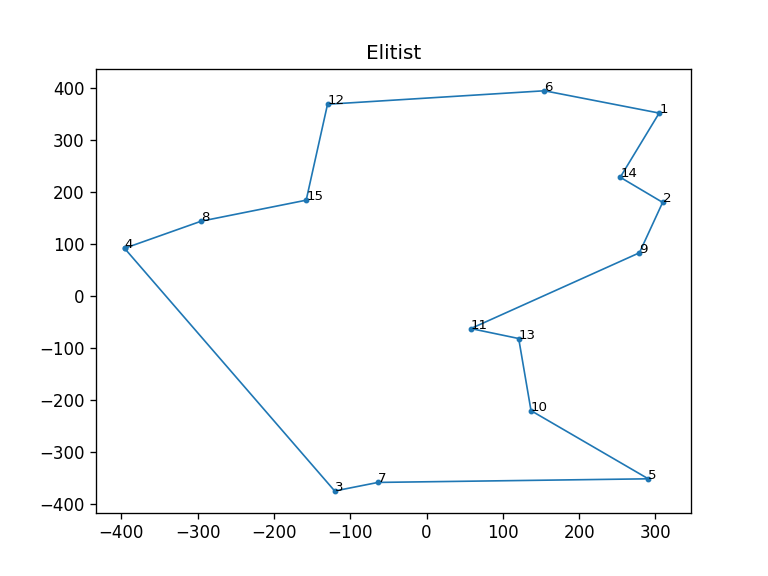
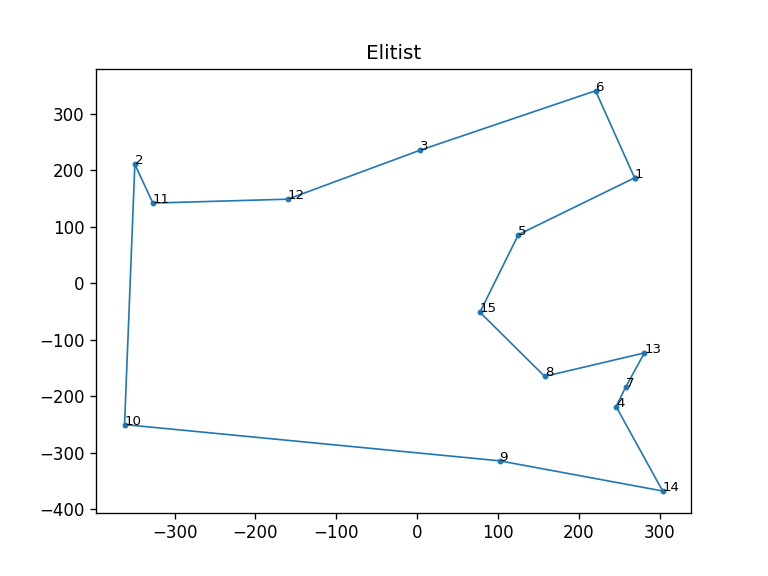
Removed parameters 'num_nodes', 'x_range' and 'y_range' from aco_tsp.py. Added parameters 'labels' to aco_tsp.py.

diff --git a/aco_tsp.py b/aco_tsp.py
@@ -50,8 +50,7 @@ class SolveTSPUsingACO:
             return self.distance
 
     def __init__(self, mode='ACS', colony_size=10, elitist_weight=1.0, min_scaling_factor=0.001, alpha=1.0, beta=3.0,
-                 rho=0.1, pheromone_deposit_weight=1.0, initial_pheromone=1.0, steps=100, num_nodes=20,
-                 x_range=(0, 500), y_range=(0, 500), nodes=None):
+                 rho=0.1, pheromone_deposit_weight=1.0, initial_pheromone=1.0, steps=100, nodes=None, labels=None):
         self.mode = mode
         self.colony_size = colony_size
         self.elitist_weight = elitist_weight
@@ -59,15 +58,12 @@ class SolveTSPUsingACO:
         self.rho = rho
         self.pheromone_deposit_weight = pheromone_deposit_weight
         self.steps = steps
-        if nodes is not None:
-            self.num_nodes = len(nodes)
-            self.nodes = nodes
+        self.num_nodes = len(nodes)
+        self.nodes = nodes
+        if labels is not None:
+            self.labels = labels
         else:
-            self.num_nodes = num_nodes
-            self.nodes = [
-                (random.uniform(x_range[0], x_range[1]), random.uniform(y_range[0], y_range[1]))
-                for _ in range(0, self.num_nodes)
-            ]
+            self.labels = range(1, self.num_nodes + 1)
         self.edges = [[None] * self.num_nodes for _ in range(self.num_nodes)]
         for i in range(self.num_nodes):
             for j in range(i + 1, self.num_nodes):
@@ -134,18 +130,16 @@ class SolveTSPUsingACO:
                         self.edges[i][j].pheromone = min_pheromone
 
     def run(self):
-        print('Started: {0}'.format(self.mode))
+        print('Started : {0}'.format(self.mode))
         if self.mode == 'ACS':
             self._acs()
         elif self.mode == 'Elitist':
             self._elitist()
         else:
             self._max_min()
-        print('Ended: {0}'.format(self.mode))
-        print('Tour: [{0}]'.format(
-            ' -> '.join([' -> '.join(str(i + 1) for i in self.global_best_tour), str(self.global_best_tour[0] + 1)])
-        ))
-        print('Distance: {0}\n'.format(round(self.global_best_distance, 2)))
+        print('Ended : {0}'.format(self.mode))
+        print('Sequence : <- {0} ->'.format(' - '.join(str(self.labels[i]) for i in self.global_best_tour)))
+        print('Total distance travelled to complete the tour : {0}\n'.format(round(self.global_best_distance, 2)))
 
     def plot(self, line_width=1, point_radius=math.sqrt(2.0), annotation_size=8, dpi=120, save=True, name=None):
         x = [self.nodes[i][0] for i in self.global_best_tour]
@@ -156,7 +150,7 @@ class SolveTSPUsingACO:
         plt.scatter(x, y, s=math.pi * (point_radius ** 2.0))
         plt.title(self.mode)
         for i in self.global_best_tour:
-            plt.annotate(i + 1, self.nodes[i], size=annotation_size)
+            plt.annotate(self.labels[i], self.nodes[i], size=annotation_size)
         if save:
             if name is None:
                 name = '{0}_tour.png'.format(self.mode)
@@ -166,12 +160,15 @@ class SolveTSPUsingACO:
 
 
 if __name__ == '__main__':
-    acs = SolveTSPUsingACO(mode='ACS', colony_size=5, steps=50, num_nodes=15, x_range=(-400, 400), y_range=(-400, 400))
+    _colony_size = 5
+    _steps = 50
+    _nodes = [(random.uniform(-400, 400), random.uniform(-400, 400)) for _ in range(0, 15)]
+    acs = SolveTSPUsingACO(mode='ACS', colony_size=_colony_size, steps=_steps, nodes=_nodes)
     acs.run()
     acs.plot()
-    elitist = SolveTSPUsingACO(mode='Elitist', colony_size=5, steps=50, nodes=acs.nodes)
+    elitist = SolveTSPUsingACO(mode='Elitist', colony_size=_colony_size, steps=_steps, nodes=_nodes)
     elitist.run()
     elitist.plot()
-    max_min = SolveTSPUsingACO(mode='MaxMin', colony_size=5, steps=50, nodes=acs.nodes)
+    max_min = SolveTSPUsingACO(mode='MaxMin', colony_size=_colony_size, steps=_steps, nodes=_nodes)
     max_min.run()
     max_min.plot()
